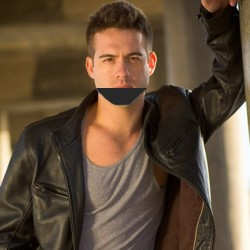
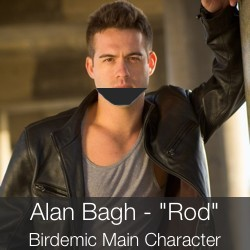
Add title to singer image

Changed region(s): [[0.0, 0.784, 1.0, 1.0]]

diff --git a/styles/birdemic.css b/styles/birdemic.css
@@ -32,7 +32,8 @@ h1
 {
   position: fixed;
   bottom: 10px;
-  right: 10px;
+  right: 30px;
+  text-align: center;
 }
 
 .container{
